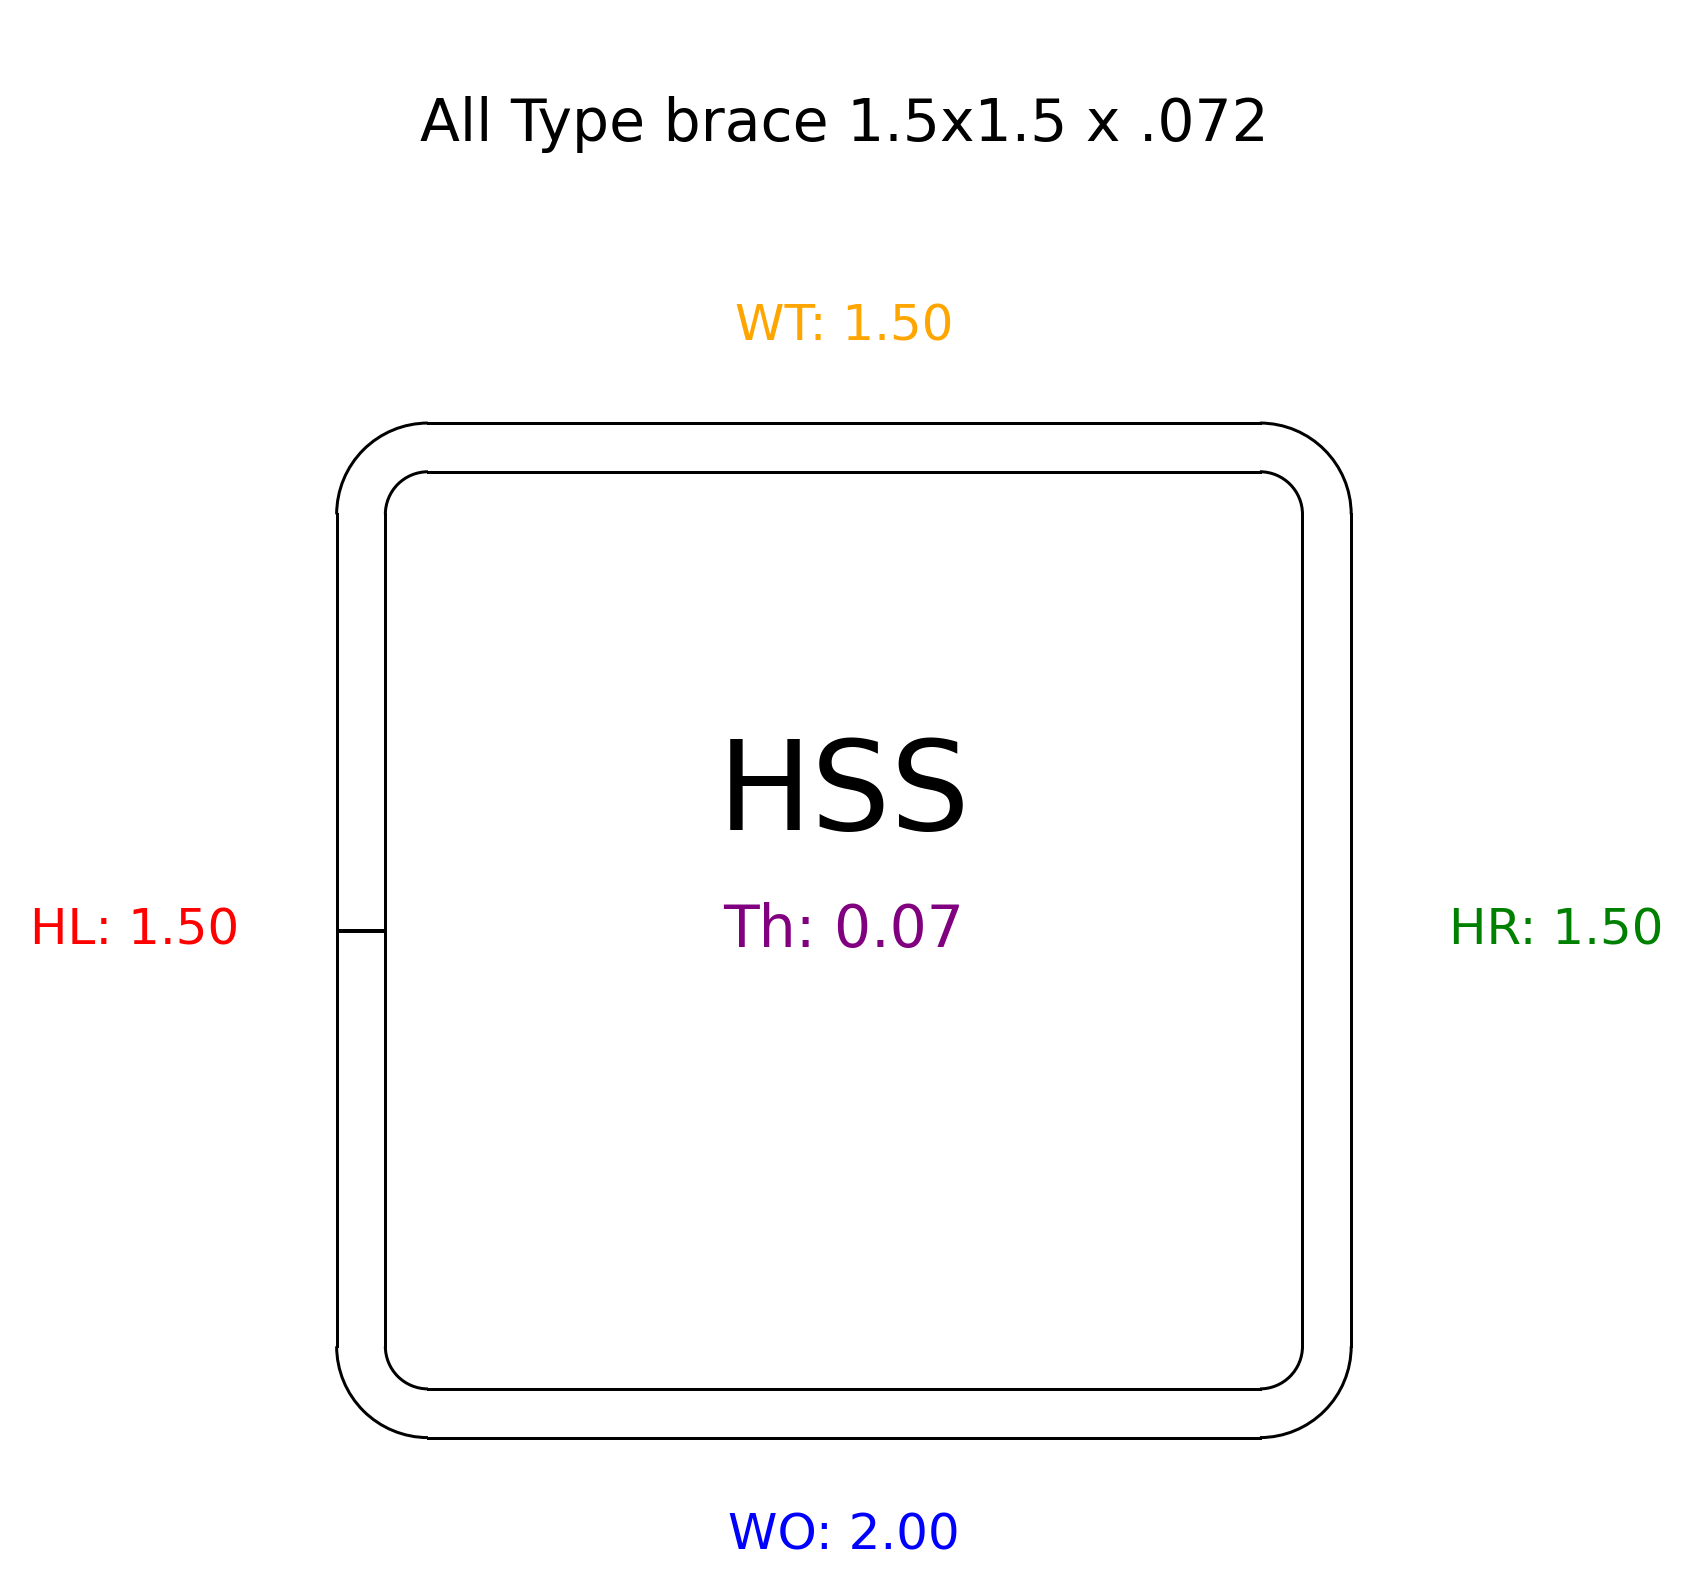
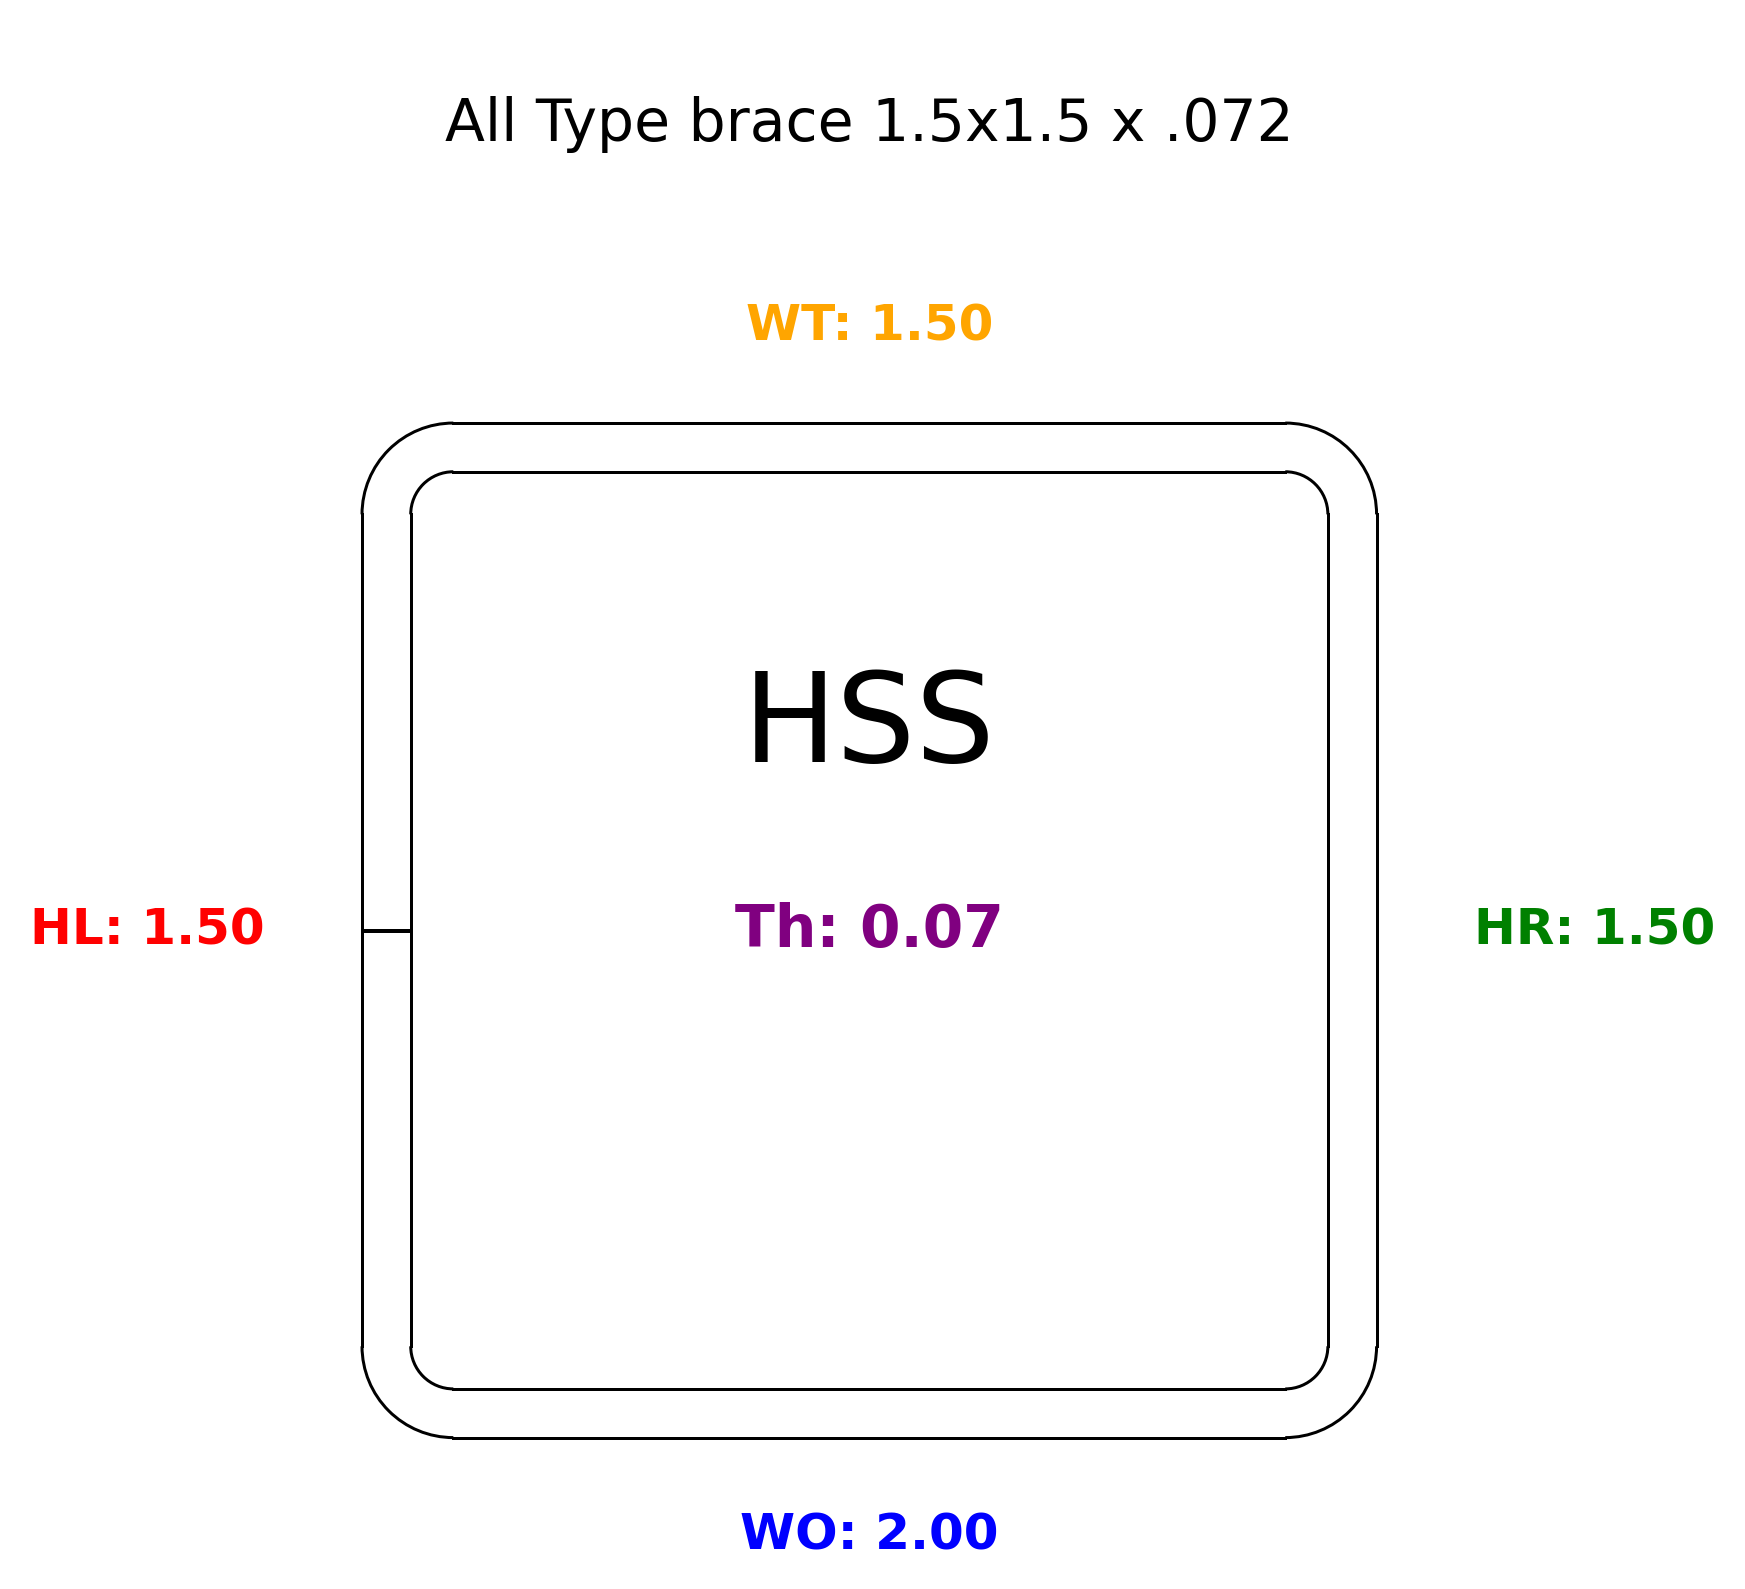
change 5

diff --git a/final e28 0,0,0 problem method 2.py b/final e28 0,0,0 problem method 2.py
@@ -124,7 +124,15 @@ for _, row in df.iterrows():
 
     ## Subshape label 
     Subshape_x = 0
-    Subshape_y = TH_y + 0.2
+
+    if shape.lower().startswith("step") and TH < 0.08:
+        # اگر Step Beam هست و ضخامت کمتر از 0.08
+        Subshape_y = TH_y + 0.6 # فاصله بزرگتر (ثابت)
+    else:
+        # بقیهی شکلها
+        Subshape_y = TH_y + 0.3
+
+    #Subshape_y = TH_y + 0.3
 
     ## Section Name 
     SectionName_x = -XL + (WT / 2)
@@ -158,14 +166,14 @@ for _, row in df.iterrows():
     frontend.draw_layout(msp)
 
     ## ---------- Add text labels / اضافه کردن متنها ----------
-    ax.text(H_x, H_y, f"HL: {H:.2f}", ha='right', va='center', fontsize=12, color='red')
+    ax.text(H_x, H_y, f"HL: {H:.2f}", ha='right', va='center', fontsize=12, color='red' , fontweight='bold')
     if shape in ["Brace", "Post"]:
-        ax.text(WB_x, WB_y, f"WO: {WO:.2f}", ha='center', va='center', fontsize=12, color='blue')
+        ax.text(WB_x, WB_y, f"WO: {WO:.2f}", ha='center', va='center', fontsize=12, color='blue', fontweight='bold')
     else:
-        ax.text(WB_x, WB_y, f"WB: {WB:.2f}", ha='center', va='center', fontsize=12, color='blue')
-    ax.text(HR_x, HR_y, f"HR: {HR:.2f}", ha='left', va='center', fontsize=12, color='green')
-    ax.text(WT_x, WT_y, f"WT: {WT:.2f}", ha='center', va='center', fontsize=12, color='orange')
-    ax.text(TH_x, TH_y, f"Th: {TH:.2f}", ha='center', va='center', fontsize=14, color='purple')
+        ax.text(WB_x, WB_y, f"WB: {WB:.2f}", ha='center', va='center', fontsize=12, color='blue', fontweight='bold')
+    ax.text(HR_x, HR_y, f"HR: {HR:.2f}", ha='left', va='center', fontsize=12, color='green', fontweight='bold')
+    ax.text(WT_x, WT_y, f"WT: {WT:.2f}", ha='center', va='center', fontsize=12, color='orange', fontweight='bold')
+    ax.text(TH_x, TH_y, f"Th: {TH:.2f}", ha='center', va='center', fontsize=14, color='purple', fontweight='bold')
     ax.text(SectionName_x, SectionName_y, f"\n{section_name}", ha='center', va='bottom', fontsize=14, color='black')
     ax.text(Subshape_x, Subshape_y, subshape, ha='center', va='center', fontsize=30, color='black')
 
